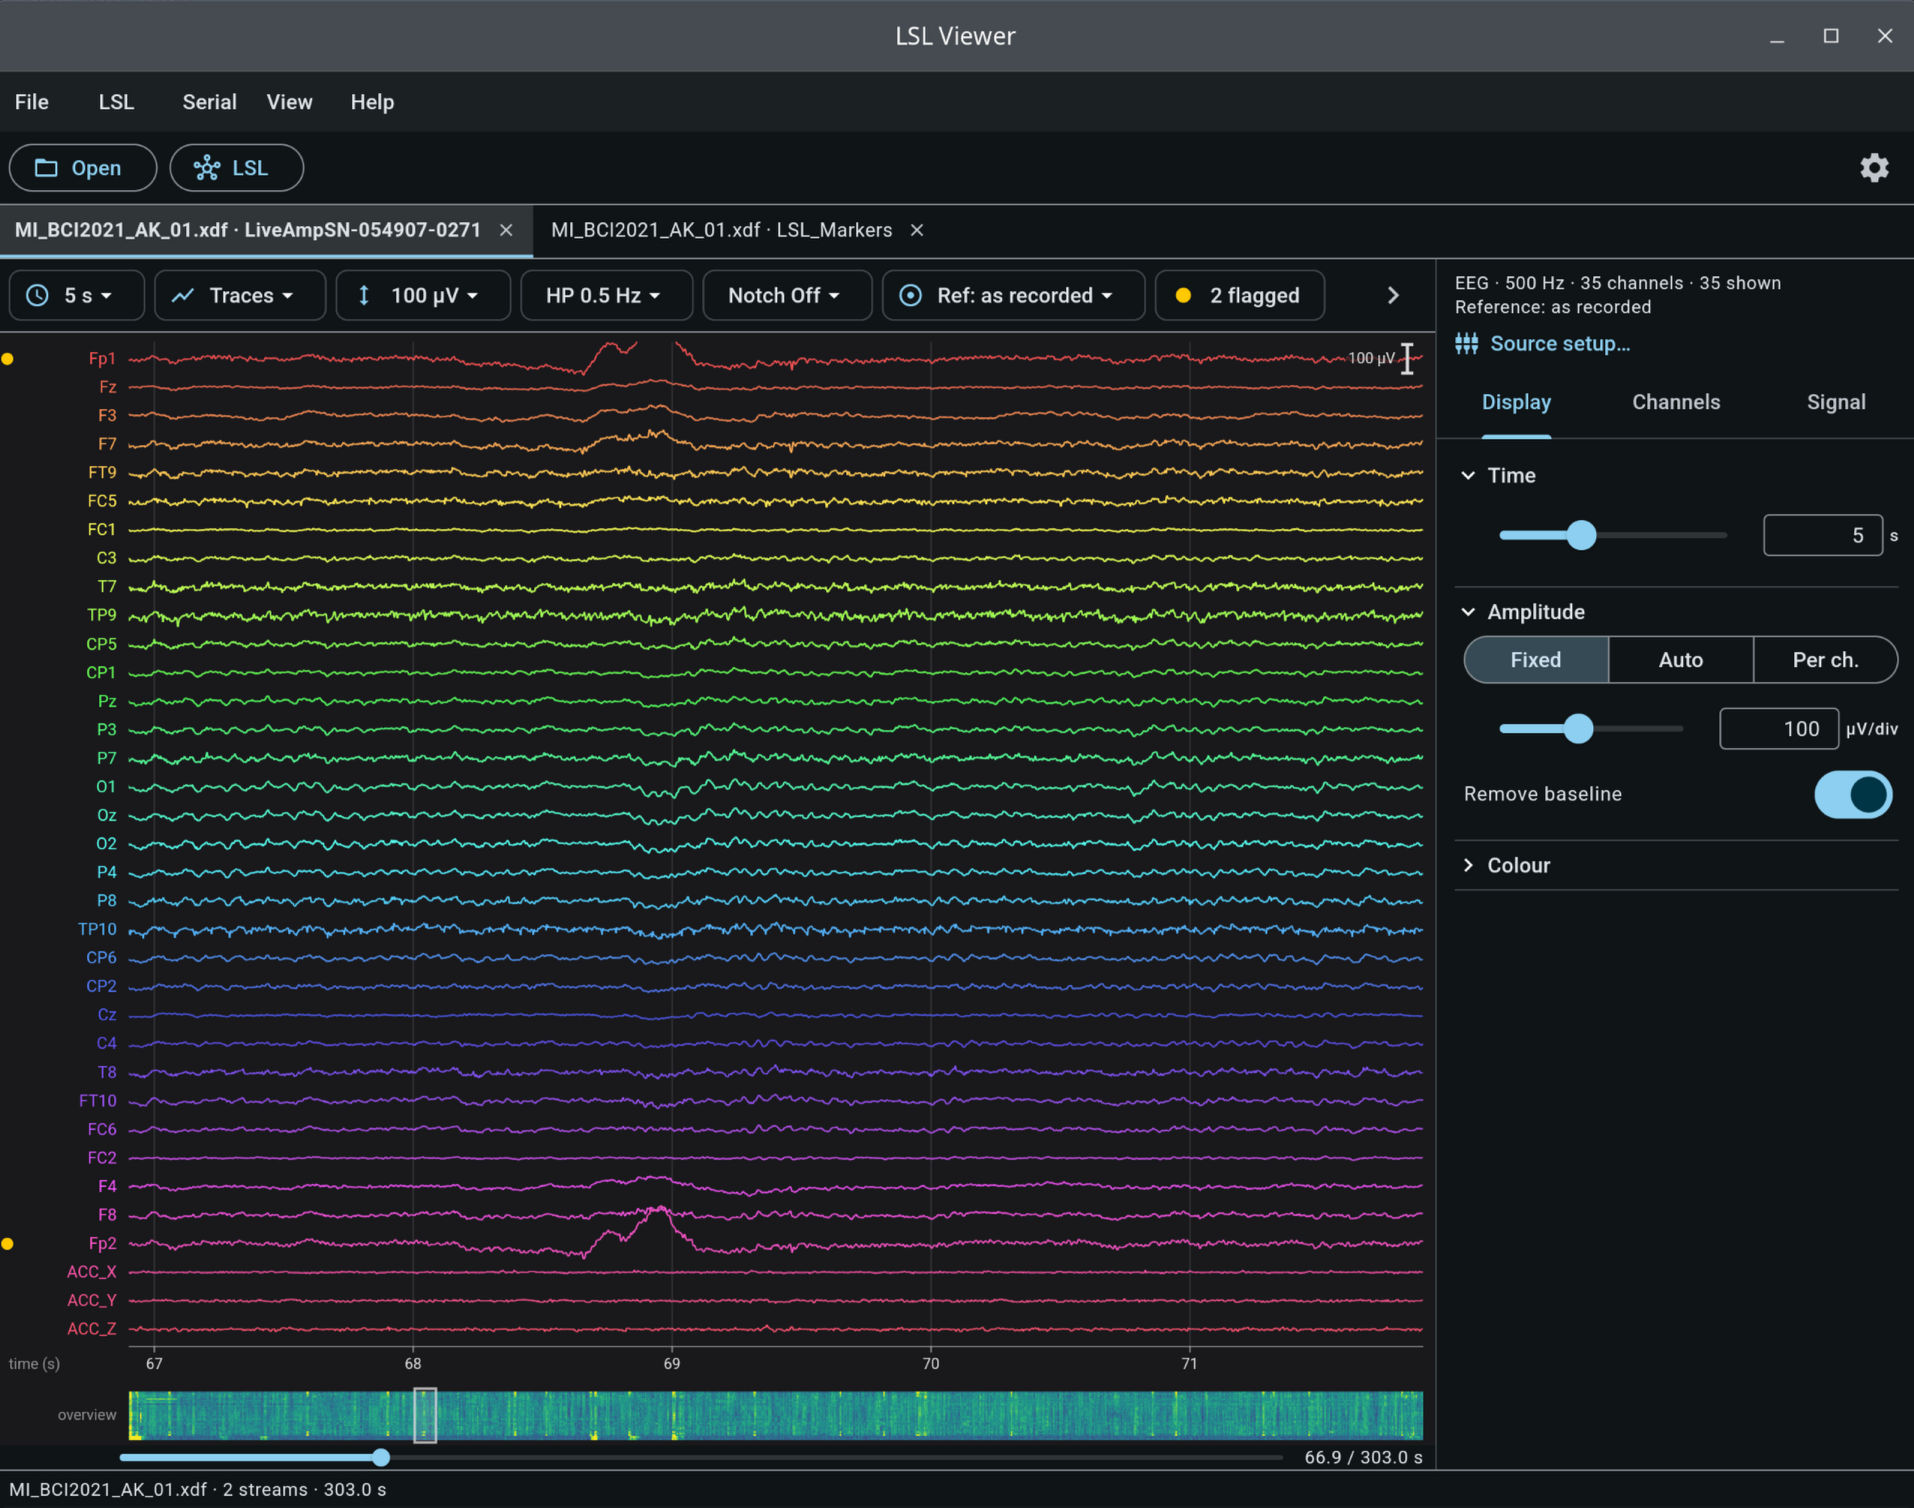
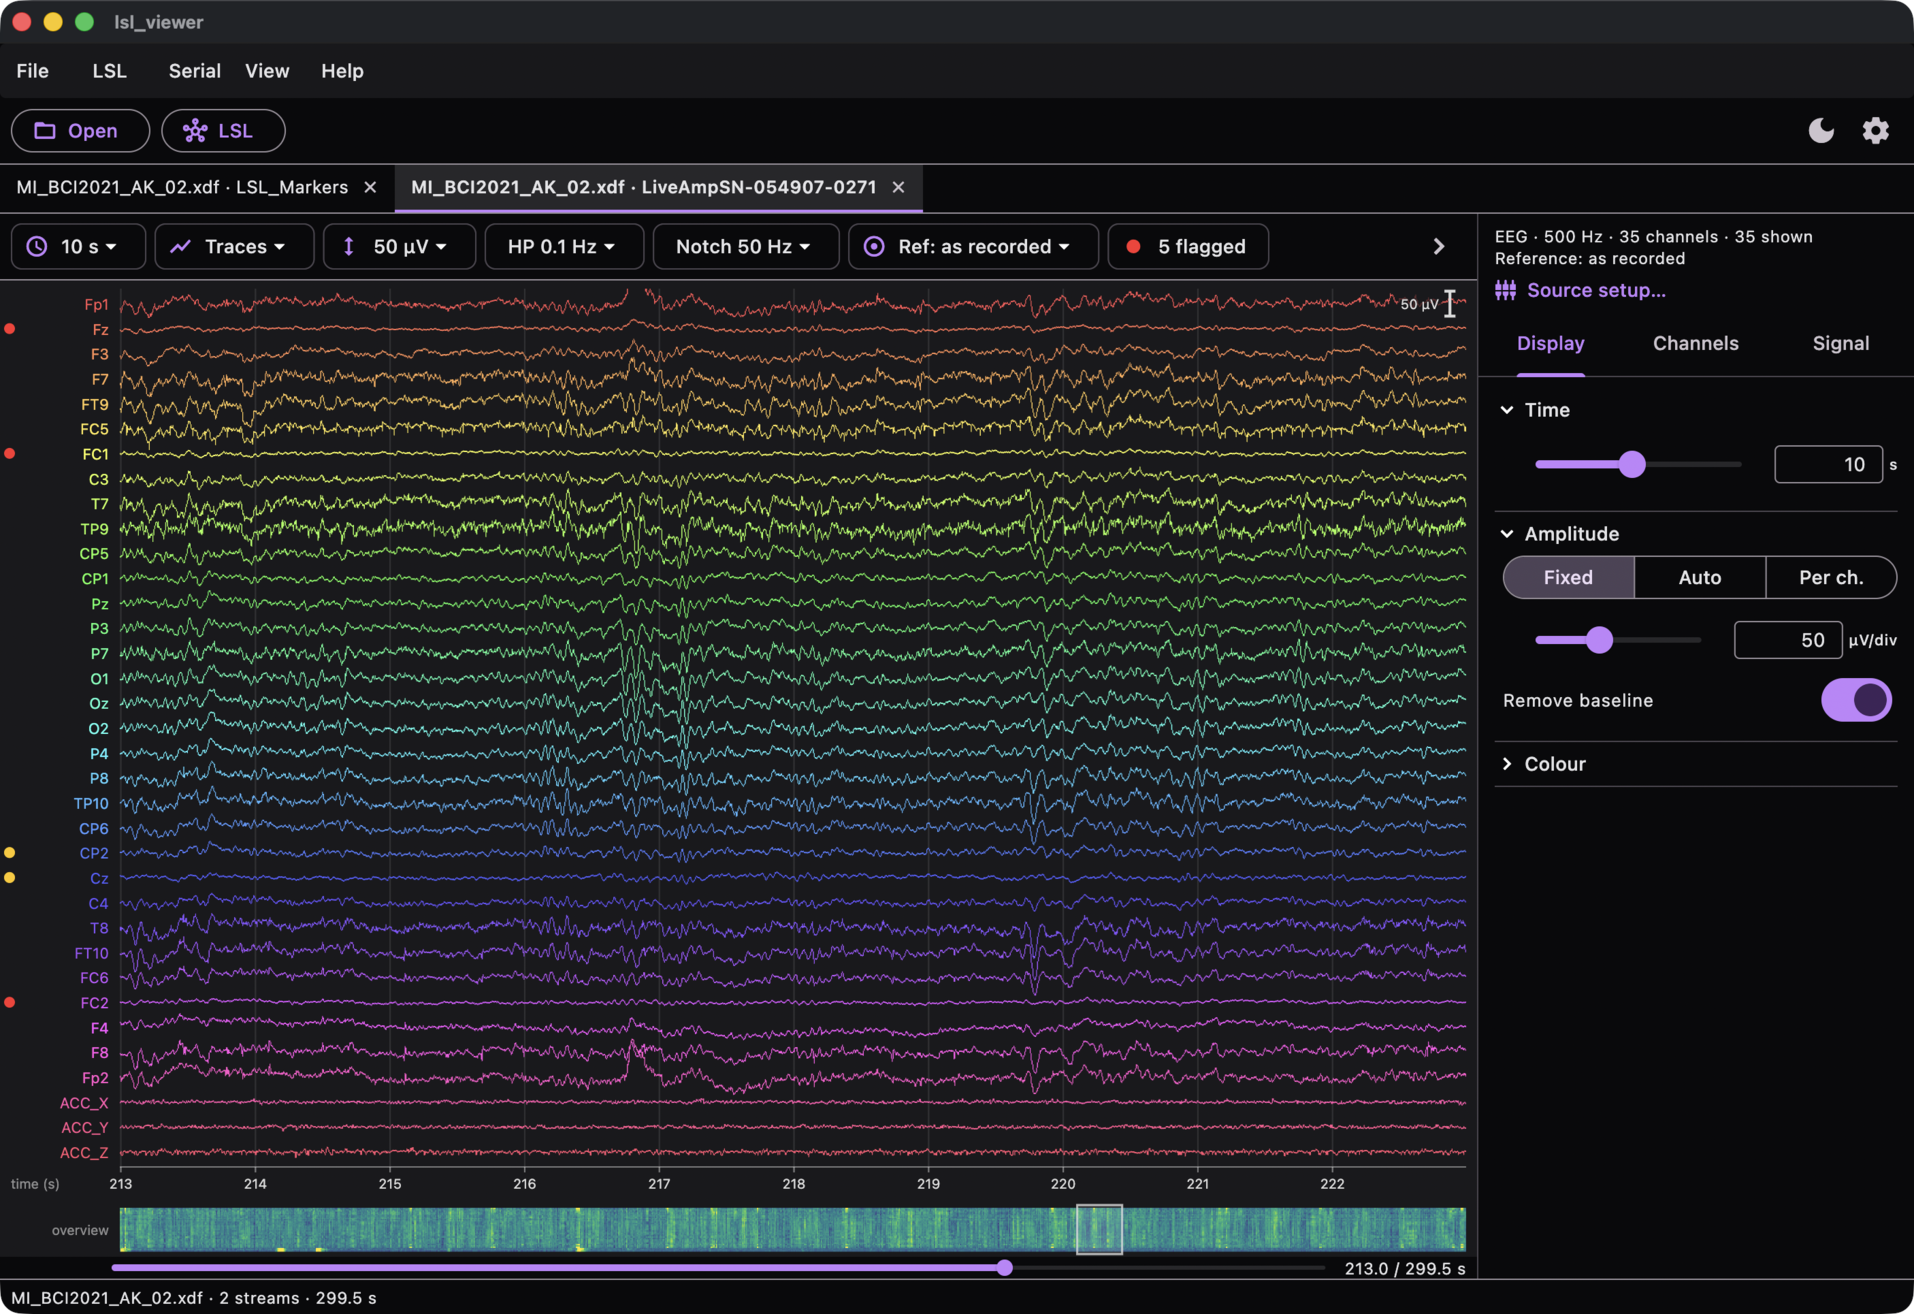
match site to global theme

diff --git a/site/index.html b/site/index.html
@@ -133,7 +133,7 @@
         <a href="https://github.com/NexusDynamic/liblsl.dart/tree/main/apps/lsl_viewer">Documentation and source</a>
       </p>
       <figure>
-        <img src="screenshot.png" alt="LSL Viewer showing EEG channels from an XDF recording" width="1914" height="1508" loading="lazy">
+        <img src="screenshot.png" alt="LSL Viewer showing 35 channels of EEG from an XDF recording" width="1914" height="1314" loading="lazy">
       </figure>
       <p>
         A browser cannot use LSL directly. LSL streams are made available to

diff --git a/README.md b/README.md
@@ -55,9 +55,6 @@ devices are supported, including through WebSerial in the browser.
     <a href="lsl_and_xdf_viewer_screenshot.png">
         <img src="lsl_and_xdf_viewer_screenshot.png" alt="screenshot of the LSL viewer showing the recorded EEG from an XDF file" height="450px">
     </a>
-    <a href="android_lsl_and_xdf_viewer.png">
-        <img src="android_lsl_and_xdf_viewer.png" alt="screenshot of the LSL viewer android app showing the recorded EEG from an XDF file" height="450px">
-    </a>
 </p>
 
 | Name | Type | Description | Get it |

diff --git a/apps/lsl_viewer/README.md b/apps/lsl_viewer/README.md
@@ -18,9 +18,6 @@ menu (right-click, *Open*).
     <a href="../../lsl_and_xdf_viewer_screenshot.png">
     <img src="../../lsl_and_xdf_viewer_screenshot.png" alt="screenshot of the LSL viewer showing the recorded EEG from an XDF file" height="450px">
     </a>
-    <a href="../../android_lsl_and_xdf_viewer.png">
-        <img src="../../android_lsl_and_xdf_viewer.png" alt="screenshot of the LSL viewer android app showing the recorded EEG from an XDF file" height="450px">
-    </a>
 </p>
 
 ## Functions
